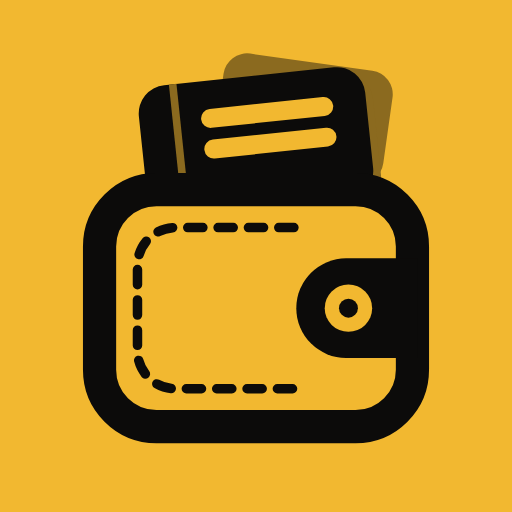
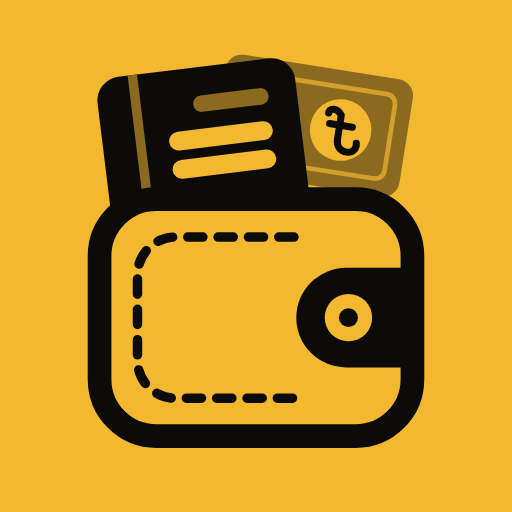
The mark becomes 09H, the money ledger
The owner has moved from C7 to 09H on the logo canvas: the same wallet, now holding the
ledger book and a taka note -- the book the app keeps and the money it is about.

Same two cuts as before, from the canvas's own geometry: logo.svg, the full mark, for
the header and anything 40px and up; favicon.svg, the simplified cut for 16 to 24 --
the note keeps its coin but loses its border and sign, the book its spine and
bookmark, the wallet its stitching -- for the tab and the footer. The tab, home-screen
and share icons are rendered again from these.

One change from the canvas: it writes the taka sign on the note as a letter in a web
font. A picture made from an SVG file cannot load a font, so on a phone without a
Bengali face the sign would have come out as an empty box. It is drawn as a line here,
the same everywhere.

diff --git a/README.md b/README.md
@@ -19,7 +19,7 @@ and it works.
 | `assets/strings.js` | **every word on the site, in English and Bangla, one pair per line** |
 | `assets/site.css` | both themes -- light from the app, dark from the owner's drawing of the site |
 | `assets/site.js` | the language switch, the theme switch, and the release lookup |
-| `assets/logo.svg` | the mark: a wallet with a ledger page in it, for 40px and up; `favicon.svg` is its cut for 16–24px, and the PNG icons are drawn from these two |
+| `assets/logo.svg` | the mark: a wallet holding the ledger book and a taka note, for 40px and up; `favicon.svg` is its cut for 16–24px, and the PNG icons are drawn from these two |
 | `assets/screens/` | the install-guide screenshots, cropped to the dialog |
 | `check.js` | run before publishing — see below |
 
